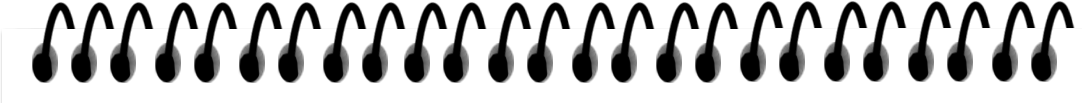
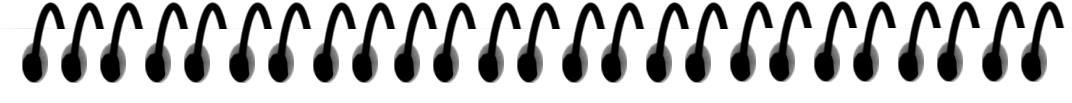
Paper finished

diff --git a/KinectDemoApplikation/Whiteboard.xaml b/KinectDemoApplikation/Whiteboard.xaml
@@ -26,30 +26,37 @@
             <Grid Name="main_grid" ShowGridLines="False" Height="{Binding ActualHeight, ElementName=Panel}" Width="{Binding ActualWidth, ElementName=Panel}">
                 <Grid.RowDefinitions>
                     <RowDefinition Height="0.5*"/>
-                    <RowDefinition Height="1.5*"/>
+                    <RowDefinition Height="1*"/>
                     <RowDefinition Height="5*"/>
-                    <RowDefinition Height="0.5*"/>
-                    <RowDefinition Height="0.5*"/>
+                    <RowDefinition Height="1*"/>
+                    <RowDefinition Height="0.25*"/>
                 </Grid.RowDefinitions>
                 <Grid.ColumnDefinitions>
-                    <ColumnDefinition Width="0.5*"/>
-                    <ColumnDefinition Width="4*"/>
                     <ColumnDefinition Width="1*"/>
+                    <ColumnDefinition Width="7*"/>
+                    <ColumnDefinition Width="0.5*"/>
                     <ColumnDefinition Width="1*"/>
                 </Grid.ColumnDefinitions>
                 <Button Name="SwitchButton" Click="SwitchButton_Click">Switch</Button>
 
-                <Image Name="Spirale" Source="Images\spirale.png"  Grid.Column="1" Grid.Row="1" Width="{Binding ActualWidth, ElementName=canvas}" VerticalAlignment="Bottom" />
-                <Image Name="Ecke_rechts_oben" Source="Images\ecke_rechts.png" Grid.Column="2" Height="{Binding ActualHeight, ElementName=Spirale}" Width="{Binding ActualWidth, ElementName=Seite_rechts}" Grid.Row="1" VerticalAlignment="Bottom" HorizontalAlignment="Left"/>
-                <Image Name="Seite_rechts" Source="Images\seite_rechts.png" Grid.Column="2" Grid.Row="2" Height="{Binding Width, ElementName=canvas}" HorizontalAlignment="Left" />
-                <Grid Name="Pencil_holder"  Canvas.Right="1" Grid.Column="3" Grid.Row="2">
+                <Image Name="Spirale" Source="Images\spirale.png" Stretch="Fill"  Grid.Column="1" Grid.Row="1" Width="{Binding ActualWidth, ElementName=canvas}" VerticalAlignment="Bottom" />
+                <Image Name="Ecke_rechts_oben" Source="Images\ecke_rechts.png" Stretch="Fill" Grid.Column="2" Height="{Binding ActualHeight, ElementName=Spirale}" Width="{Binding ActualWidth, ElementName=Seite_rechts}" Grid.Row="1" VerticalAlignment="Bottom" HorizontalAlignment="Left"/>
+                <Image Name="Seite_rechts" Source="Images\seite_rechts.png" Stretch="Fill"  Grid.Column="2" Grid.Row="2" Height="{Binding Width, ElementName=canvas}" HorizontalAlignment="Left" />
+                <Image Name="Ecke_rechts_unten" Source="Images\ecke_unten_rechts.png" Stretch="Fill" Grid.Column="2" Width="{Binding ActualWidth, ElementName=Seite_rechts}" Grid.Row="3" VerticalAlignment="Top" HorizontalAlignment="Left"/>
+                <Image Name="Kante_unten" Source="Images\kante_unten.png" Grid.Column="1" Stretch="Fill" Height="{Binding ActualHeight, ElementName=Ecke_rechts_unten}" Width="{Binding ActualWidth, ElementName=canvas}" Grid.Row="3" VerticalAlignment="Top" HorizontalAlignment="Left"/>
+                <Grid Name="Pencil_holder"  Canvas.Right="1" Grid.Column="3" Grid.RowSpan="4">
                     <Grid.RowDefinitions>
-                        <RowDefinition Height="0.5*"/>
+                        <RowDefinition Height="0*"/>
                         <RowDefinition Height="1*"/>
                         <RowDefinition Height="1*"/>
                         <RowDefinition Height="1*"/>
-                        <RowDefinition Height="0.5*"/>
+                        <RowDefinition Height="0*"/>
                     </Grid.RowDefinitions>
+                    
+                    <Grid.ColumnDefinitions>
+                        <ColumnDefinition Width ="2*"/>
+                        <ColumnDefinition Width ="0.5*"/>
+                    </Grid.ColumnDefinitions>
                     <Image Name="Pencil" Grid.Column="0" Grid.Row="1" Source="Images\pencil.png" VerticalAlignment="Stretch" HorizontalAlignment="Stretch" IsManipulationEnabled="True"></Image>
                     <Image Name="Eraser" Grid.Column="0" Grid.Row="3"  Source="Images\eraser.png" VerticalAlignment="Stretch" HorizontalAlignment="Stretch" IsManipulationEnabled="True"></Image>
                     <Image Name="Marker" Grid.Column="0" Grid.Row="2"  Source="Images\marker.ico" VerticalAlignment="Stretch" HorizontalAlignment="Stretch" IsManipulationEnabled="True"></Image>

diff --git a/KinectDemoApplikation/Whiteboard.xaml.cs b/KinectDemoApplikation/Whiteboard.xaml.cs
@@ -27,6 +27,7 @@ namespace KinectDemoApplikation
         /// </summary>
         public CanvasDrawer CanvasDrawer { get; set; }
 
+
         /// <summary>
         /// Default constructor
         /// </summary>
@@ -35,6 +36,8 @@ namespace KinectDemoApplikation
             //create associated objects
             CanvasDrawer = new CanvasDrawer(this);
 
+            
+
             InitializeComponent();
 
 
@@ -42,17 +45,6 @@ namespace KinectDemoApplikation
 
         #region Event Handlers
 
-        /// <summary>
-        /// Starts the application when the UI is opened 
-        /// </summary>
-        /// <param name="sender"></param>
-        /// <param name="e"></param>
-        private void Window_Loaded(object sender, RoutedEventArgs e)
-        {
-            controller.Start();
-            //controller.ChangeSkeletonMode();
-            //controller.ChangeFingerTrackingMode();
-        }
 
         /// <summary>
         /// Stops the application when the UI is closed
@@ -117,14 +109,19 @@ namespace KinectDemoApplikation
         public void ChangeViewToPaper() {
             controller.DisableColor();
             controller.Ui.color_background.Visibility = System.Windows.Visibility.Hidden;
-            controller.Ui.Papier.Visibility = System.Windows.Visibility.Visible;
-            
+            foreach (UIElement e in controller.PaperElements)
+            {
+                e.Visibility = Visibility.Visible;
+            }
+
         }
 
         //Displays camera instead of paper
         public void ChangeViewToCamera() {
             controller.EnableColor();
-            controller.Ui.Papier.Visibility = System.Windows.Visibility.Hidden;
+            foreach (UIElement e in controller.PaperElements) {
+                e.Visibility = Visibility.Hidden;
+            }
             controller.Ui.color_background.Visibility = System.Windows.Visibility.Visible;
         }
 

diff --git a/KinectDemoApplikation/Controller.cs b/KinectDemoApplikation/Controller.cs
@@ -4,6 +4,7 @@ using System.Collections.Generic;
 using System.Linq;
 using System.Text;
 using System.Threading.Tasks;
+using System.Windows;
 
 ///
 /// Program: Kinect Demo Application
@@ -34,9 +35,9 @@ namespace KinectDemoApplikation
         private KinectHandler colorFrameHandler;
 
         /// <summary>
-        /// Depth Frame Handler
+        /// Paper UIElements List
         /// </summary>
-
+        public List<UIElement> PaperElements;
 
         /// <summary>
         /// Infrared Frame Handler
@@ -99,6 +100,15 @@ namespace KinectDemoApplikation
             this.skeletonHandler.Enabled = false;
             this.fingerTrackingHandler.Enabled = false;
             DisplayStatus();
+
+            //Add all elements for drwaing paper to a list
+            PaperElements = new List<UIElement>();
+            PaperElements.Add(this.Ui.Papier);
+            PaperElements.Add(this.Ui.Spirale);
+            PaperElements.Add(this.Ui.Ecke_rechts_oben);
+            PaperElements.Add(this.Ui.Seite_rechts);
+            PaperElements.Add(this.Ui.Ecke_rechts_unten);
+            PaperElements.Add(this.Ui.Kante_unten);
 
             this.Ui.color_background.Visibility = System.Windows.Visibility.Hidden;
 
